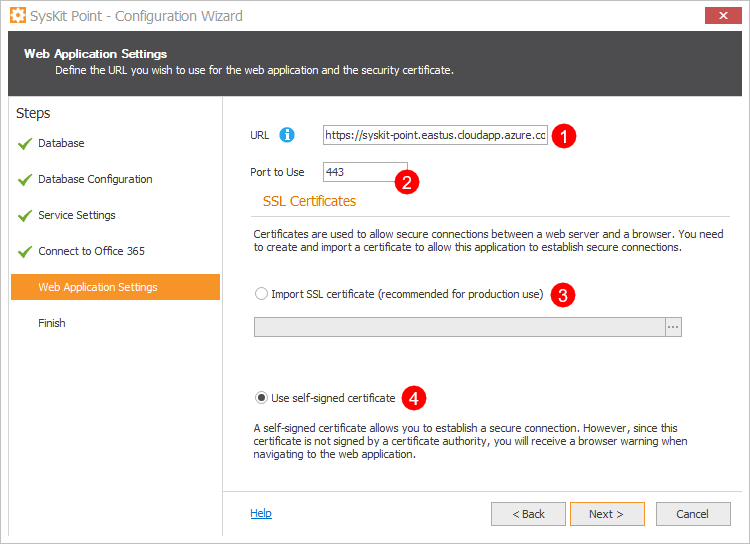
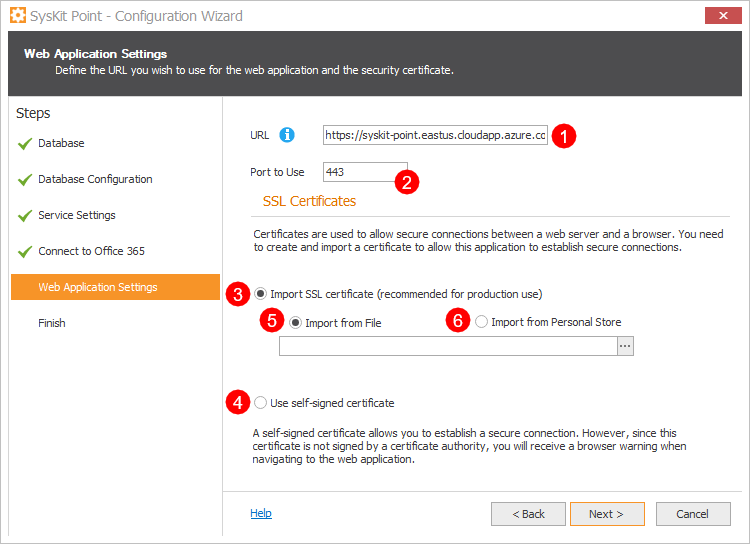
import certificate img changes and txt added

diff --git a/installation-and-configuration/deploy-on-premises/install-syskit-point-on-premises.md b/installation-and-configuration/deploy-on-premises/install-syskit-point-on-premises.md
@@ -123,12 +123,16 @@ In the Web Application Settings, the following is defined:
 
 * **URL of SysKit Point Web App \(1\)**
 * **Port used \(2\)**
-* **Certificate**; here you can choose from two options:
-  * **SSL Certificate \(3\)**
-  * **Self-signed certificate \(4\)**
+* **Certificate**; here, you can choose between two options:
+  * **Import SSL certificate \(3\)** - here, you can **import the certificate from a file (5)**, or from the **Personal store (6)**
+  * **Use self-signed certificate \(4\)**
 
 ![Configuration Wizard - Web Application Settings step](../../.gitbook/assets/install-syskit-point-on-premises_configuration-web-app.png)
 
+{% hint style="success" %}
+All certificate file types are supported - `cer`, `pfx`, `p12`, `crt`, and other.
+In case importing a specific certificate file should fail, import the certificate manually with the help of the Certificate Manager, and then select it in SysKit Point Configuration Wizard by using the **Import from Personal Store** option.
+{% endhint %}
 ### Finish Step
 
 When the configuration is completed, if everything was configured correctly the screen will look like this.

diff --git a/installation-and-configuration/deploy-to-azure/install-syskit-point-on-azure-vm.md b/installation-and-configuration/deploy-to-azure/install-syskit-point-on-azure-vm.md
@@ -119,11 +119,16 @@ In the Web Application Settings, the following options are defined:
 
 * **URL of SysKit Point Web App \(1\)**
 * **Port to use \(2\)**
-* **Certificate**; here, you can choose from two options:
-  * **SSL Certificate \(3\)**
-  * **Self-signed certificate \(4\)**
+* **Certificate**; here, you can choose between two options:
+  * **Import SSL certificate \(3\)** - here, you can **import the certificate from a file (5)**, or from the **Personal store (6)**
+  * **Use self-signed certificate \(4\)**
 
 ![Configuration Wizard - Web Application Settings step](../../.gitbook/assets/install-syskit-point-on-azure-vm_webapp-settings-step.png)
+
+{% hint style="success" %}
+All certificate file types are supported - `cer`, `pfx`, `p12`, `crt`, and other.
+In case importing a specific certificate file should fail, import the certificate manually with the help of the Certificate Manager, and then select it in SysKit Point Configuration Wizard by using the **Import from Personal Store** option.
+{% endhint %}
 
 ### Finish Step
 
